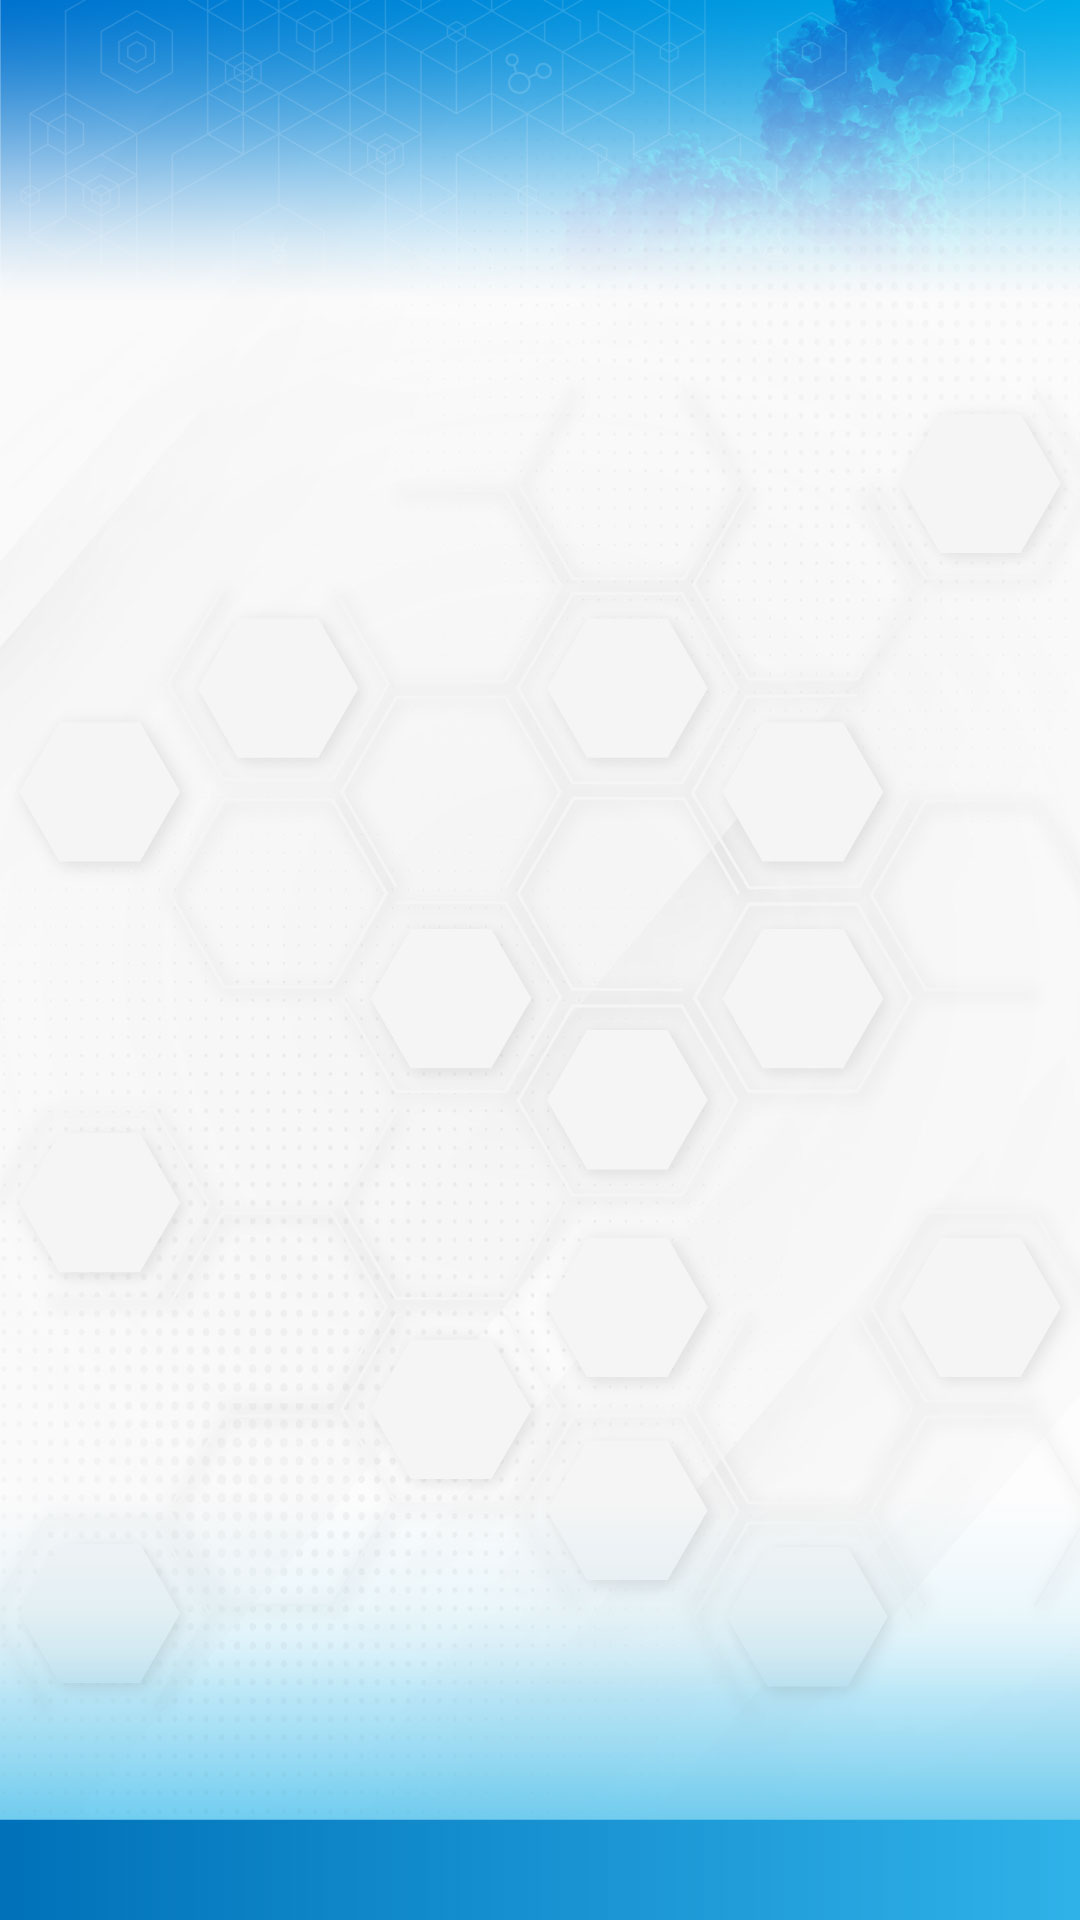
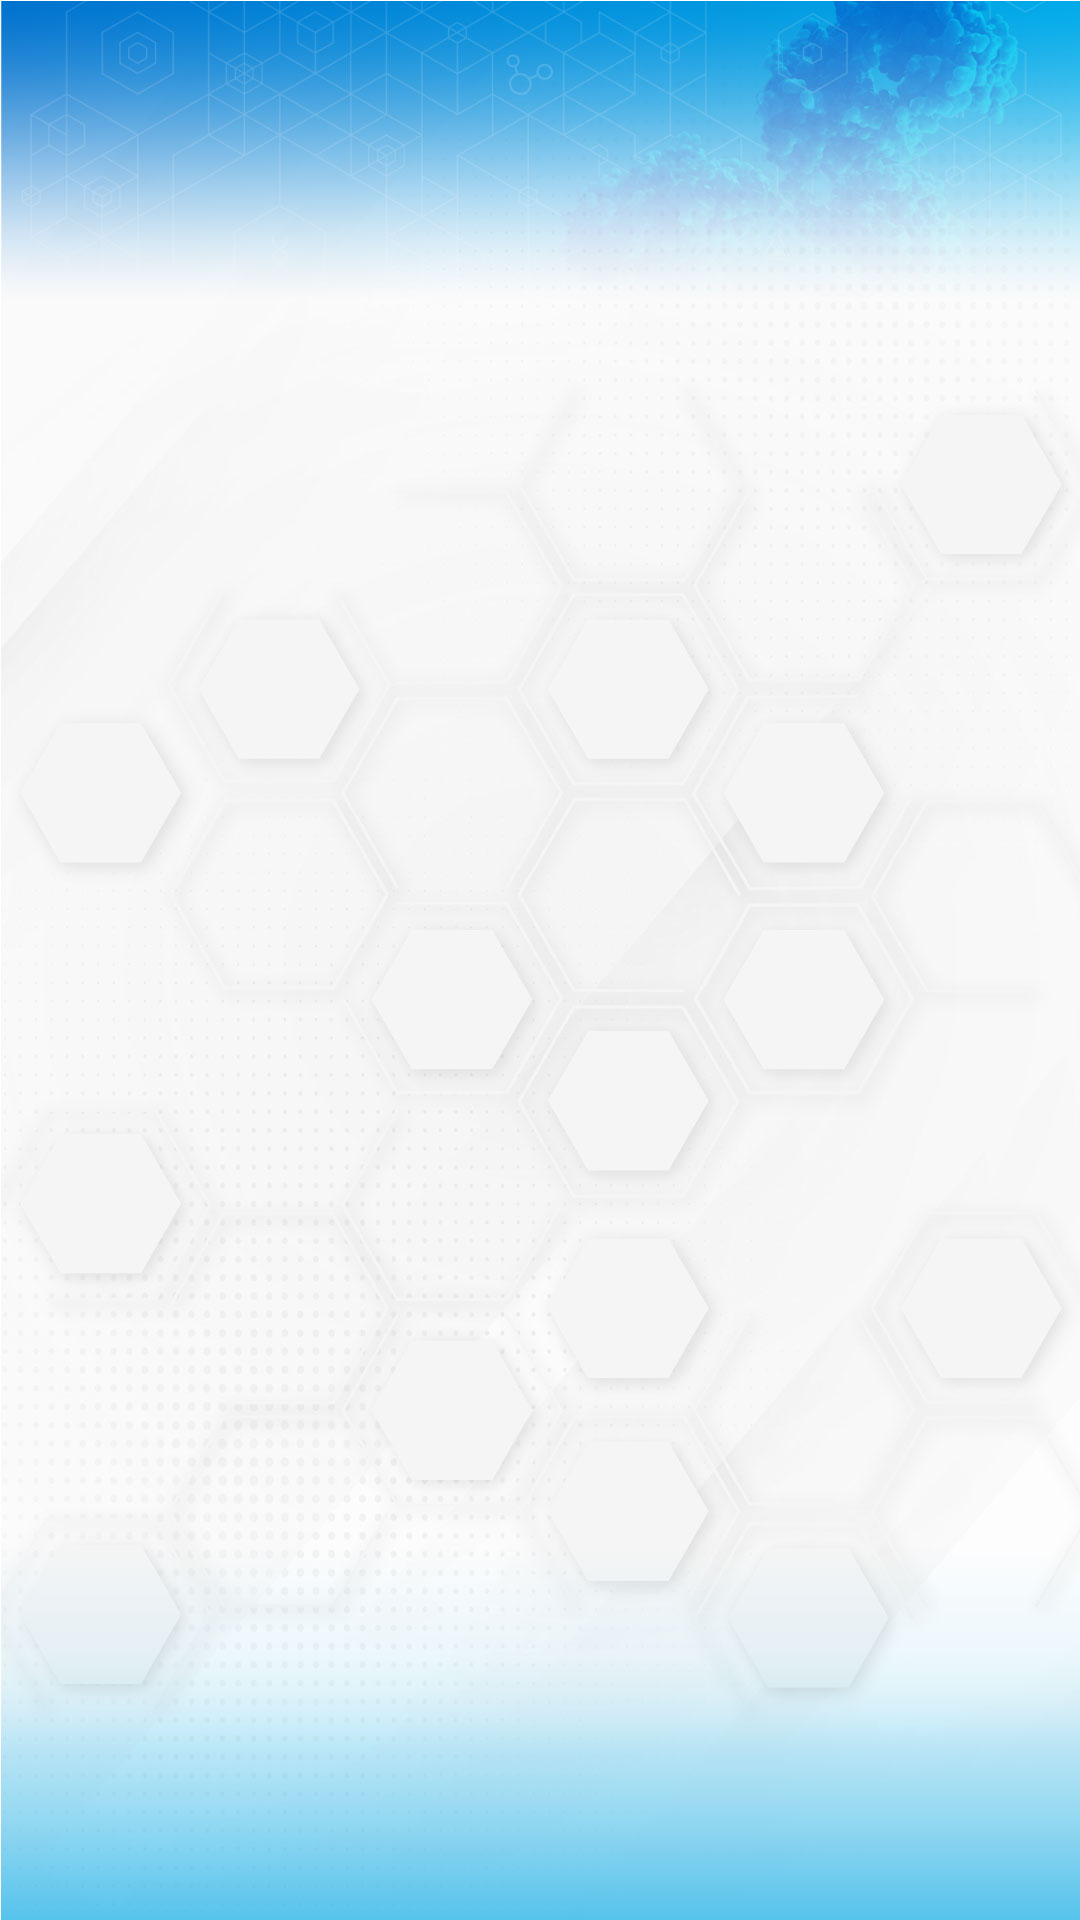
Cambios Estilo

Changed region(s): [[0.0, 0.8438, 1.0, 1.0]]

diff --git a/CSS/StyleSheet.css b/CSS/StyleSheet.css
@@ -10,6 +10,7 @@
 
 body {
 	background-color: #053456;
+	-webkit-text-size-adjust: 100%;
 }
 
 img {
@@ -71,13 +72,21 @@ img {
 	text-align: right;
 	display: block;
 	position: absolute;
+	z-index:1;
 	font-size:9px;
 	line-height: 1em;
-	bottom:6px;
-	right:6px;
+	bottom:0px;
+	right:0px;
+	padding: 10px 0;
 	COLOR: white;
+	background-color: #2fb2e8;
+	width: 100%;
 	
+}
 
+.TextoDesarrollo{
+	padding-right:10px;
+	display:block;
 }
 
 /* Configuracion Pantalla completa en móviles */
@@ -122,7 +131,7 @@ img {
 /* Pagina Registro */
 
 .LogoRegistro{
-	width:45%;
+	width:40%;
 	filter: drop-shadow(0px 3px 4px #0e0c63aa);
 }
 
@@ -174,16 +183,17 @@ button{
 }
 
 .LogoInferior{
- width:40%;
+ width:35%;
  position: absolute;
  bottom: -2px;
- left:50%;
+ left:30%;
  transform: translateX(-50%);
  filter: drop-shadow(0px 3px 4px #0e0c63aa);
+ z-index:10;
 }
 
 .AyudasJuego{
-	max-width: 76%;
+	max-width: 70%;
 }
 
 /* Pagina Seleccion Nivel */
@@ -238,9 +248,9 @@ button{
 .FondoTiempo{
 	background:url(../Images/Fondo_Tiempo.png) no-repeat center center;
 	background-size: contain;
-	padding:4vh;
+	padding:3vh 0 1.8vh;
 	color: white;
-	font-size:3vh;
+	font-size:2vh;
 }
 
 .SeccionPuntaje{
@@ -248,22 +258,22 @@ button{
 	background-size: contain;
 	text-align: center;
 	margin: 0 auto;
-	display: block;
-	padding:3vh;
-	padding-left:5vh;
+	display: inline-block;
+	padding: 1.6vh 3vh 1vh 5vh;
 	color:white;
 	filter: drop-shadow(0px 3px 4px #0e0c63aa);
 	z-index:10;
 	position: absolute;
-	top:1vh;
+	top:2vh;
 	right:2vh;
-	font-size:1.6vh;
+	font-size:14px;
+	line-height: 1em;
 }
 
 .TituloNivel{
 	background:url(../Images/TituloNivel.svg) no-repeat center center;
 	background-size: contain;
-	width:70%;
+	width:60%;
 	text-align: center;
 	margin: 0 auto;
 	display: block;
@@ -289,6 +299,7 @@ button{
 	width:80%;
 	margin:0 auto;
 	display:flex;
+	align-items: center;
 }
 .ImagenPregunta{
 	width:20%;
@@ -298,6 +309,8 @@ button{
 	width:80%;
 	text-align:left;
 	padding-left:2vw;
+	line-height:1.2em;
+	font-size:14px;
 }
 
 .BotonRespuesta{
@@ -312,7 +325,7 @@ button{
 	color:white;
 	filter: drop-shadow(0px 3px 4px #0e0c63aa);
 	line-height: 1.2em;
-    font-size: 14px;
+    font-size: 13px;
 }
 
 .RespuestaCorrecta{
@@ -337,8 +350,8 @@ border-bottom:3px solid #2c54a3;
 }
 
 .BotonAyuda{
-	width:25%;
-	padding:2vh;
+	width:18%;
+	padding:1vh 2vh .5vh 2vh;
 }
 
 .AyudaPistaInformativa{
@@ -354,6 +367,12 @@ border-bottom:3px solid #2c54a3;
 	min-width: 300px;
 	height: 90.3vh;
 
+}
+@media (max-width: 768px) {
+	.OverlayPistaInformativa{
+		height: 100svh;	
+		width:100vw;
+	}
 }
 
 .ContenedorPistaInformativa{
@@ -384,11 +403,12 @@ border-bottom:3px solid #2c54a3;
 	color:white;
 	background-color: #2fb2e8;
 	filter: drop-shadow(0px 3px 4px #0e0c63aa);
-	padding:3vw;
-	border-radius: 0 0 2vw 2vw;
+	padding:30px 30px 20px 30px;
+	border-radius: 0 0 30px 30px;
 	top:-3vh;
 	position: relative;
 	z-index:10;
+	font-size:14px;
 }
 
 .BotonContinuarAzul{
@@ -401,8 +421,9 @@ border-bottom:3px solid #2c54a3;
 	padding:20px;
 	color:white;
 	filter: drop-shadow(0px 3px 4px #0e0c63aa);
-	top:-4vh;
+	top:-6vh;
 	position: relative;
+	font-family: Gordita-Bold;
 }
 
 .ContenedorTextoRetroalimentacion{
@@ -421,27 +442,27 @@ border-bottom:3px solid #2c54a3;
 
 
 .TextoRetroalimentacion{
-	width:60%;
+	width:84%;
 	margin:0 auto;
 	filter: drop-shadow(0px 3px 4px #0e0c63aa);
-
-	top:-8vh;
+	top:-70px;
 	position: relative;
 	z-index:10;
 }
 .TituloTextoRetroalimentacion{
 	background-color: white;
-	padding:6vw 1vw 2vw 1vw;
+	padding:40px 1vw 10px 1vw;
 	color: #2fb2e8;
-	font-size:2.5vw;
-	
+	font-size:20px;
+	font-family: Gordita-Bold;	
 }
 
 .ContenidoTextoRetroalimentacion{
 	color:white;
-	padding:3vw 3vw 3vw 3vw;
+	padding:3vw 30px 20px 30px;
 	background-color: #2fb2e8;
-	border-radius: 0 0 2vw 2vw;
+	border-radius: 0 0 30px 30px;
+	font-size: 14px;
 }
 
 
@@ -457,23 +478,25 @@ border-bottom:3px solid #2c54a3;
 /* Pagina Resultados */
 
 .ContenedorResultado{
-	width:80%;
+	width:90%;
 	margin: 0 auto;
 }
 
 .ContainerResultado{
-	width:75%;
-	max-width:230px;
+	width:90%;
+	max-width:280px;
 	margin: 0 auto;
 	color: white;
-	padding:75px 2vw 35px 2vw;
+	padding:75px 20px 35px 20px;
 	top:-60px;
 	position: relative;
-	border-radius: 0 0 2vw 2vw;
+	border-radius: 0 0 30px 30px;
 	background: rgb(6,113,187);
 	background: linear-gradient(90deg, rgba(6,113,187,1) 0%, rgba(104,38,128,1) 100%);
 	outline-offset: -5px;
 	outline: 2px solid white;
+	line-height: 1.2em;
+	font-size: 15px;
 }
 
 .TituloPuntaje{

diff --git a/HTML/SeleccionNivel.html b/HTML/SeleccionNivel.html
@@ -6,7 +6,7 @@
 
 <img class="LogoSeleccionNivel" src="Images/LogoRegistro.svg" />
 
-<div style="height:3vh;"></div>
+<div style="height:1.5vh;"></div>
 <a class="BotonSeleccionNivel" href="#">
     <div class="ContenidoSeleccionNivel">NIVEL 6&emsp;&emsp;&emsp;&emsp;
         <img class="IconoMoneda" src="Images/Moneda.svg" />
@@ -14,7 +14,7 @@
     </div>
 </a>
 
-<div style="height:2vh;"></div>
+<div style="height:0.8vh;"></div>
 <a class="BotonSeleccionNivel" href="#">
     <div class="ContenidoSeleccionNivel">NIVEL 5&emsp;&emsp;&emsp;&emsp;
         <img class="IconoMoneda" src="Images/Moneda.svg" />
@@ -22,7 +22,7 @@
     </div>
 </a>
 
-<div style="height:2vh;"></div>
+<div style="height:0.8vh;"></div>
 <a class="BotonSeleccionNivel" href="#">
     <div class="ContenidoSeleccionNivel">NIVEL 4&emsp;&emsp;&emsp;&emsp;
         <img class="IconoMoneda" src="Images/Moneda.svg" />
@@ -30,7 +30,7 @@
     </div>
 </a>
 
-<div style="height:2vh;"></div>
+<div style="height:0.8vh;"></div>
 <a class="BotonSeleccionNivel" href="#">
     <div class="ContenidoSeleccionNivel">NIVEL 3&emsp;&emsp;&emsp;&emsp;
         <img class="IconoMoneda" src="Images/Moneda.svg" />
@@ -38,7 +38,7 @@
     </div>
 </a>
 
-<div style="height:2vh;"></div>
+<div style="height:0.8vh;"></div>
 <a class="BotonSeleccionNivel" href="#">
     <div class="ContenidoSeleccionNivel">NIVEL 2&emsp;&emsp;&emsp;&emsp;
         <img class="IconoMoneda" src="Images/Moneda.svg" />
@@ -46,7 +46,7 @@
     </div>
 </a>
 
-<div style="height:2vh;"></div>
+<div style="height:0.8vh;"></div>
 <a class="BotonSeleccionNivel" href="#">
     <div class="ContenidoSeleccionNivel">NIVEL 1&emsp;&emsp;&emsp;&emsp;
         <img class="IconoMoneda" src="Images/Moneda.svg" />
@@ -56,6 +56,4 @@
 
 <img class="FooterAmgen" src="Images/FooterAmgen.svg" />
 
-<div class="CodigoDesarrollo">
-    Material Dirigido exclusivamente<br>a los profesionales de la salud<br>COL-NP-0523-80005
-</div>
+<div class="CodigoDesarrollo"><span class="TextoDesarrollo">Material dirigido exclusivamente<br>a los profesionales de la salud<br>COL-NP-0523-80005</span></div>

diff --git a/HTML/Pregunta.html b/HTML/Pregunta.html
@@ -5,12 +5,12 @@
 <div style="height:2vh;"></div>
 <div class="TituloNivel" id="TituloNivel">NIVEL 1</div>
 <div class="SeccionPreguntas">
-   <div style="height:6vh;"></div>
+   <div style="height:4.5vh;"></div>
    <div class="BloquePreguntas">
       <div class="ImagenPregunta"><img src="Images/Proteina.png" /></div>
       <div class="TextoPregunta"></div>
    </div>
-   <div style="height:3vh;"></div>
+   <div style="height:1.5vh;"></div>
 </div>
 
 <div id="answersList"></div>
@@ -55,5 +55,4 @@
    <img class="LogoTextoRetroalimentacion" src="Images/LogoAmgen.svg" />
 </div>
 
-<div class="CodigoDesarrollo">Material Dirigido exclusivamente<br>a los profesionales de la salud<br>COL-NP-0523-80005
-</div>
+<div class="CodigoDesarrollo"><span class="TextoDesarrollo">Material dirigido exclusivamente<br>a los profesionales de la salud<br>COL-NP-0523-80005</span></div>

diff --git a/HTML/Instrucciones02.html b/HTML/Instrucciones02.html
@@ -4,7 +4,7 @@
 
 <img class="LogoRegistro" src="Images/QuienSabeMas.png" />
 
-<div style="height:3vh;"></div>
+<div style="height:2vh;"></div>
 
 <div class="ContenedorInstruccion">
     <div class="ContenedorResultado">
@@ -16,8 +16,8 @@
 
 
 
-<a class="BotonContinuar" id="btnStartGame" style="position:relative; top:-3vh;" href="#">COMENZAR</a>
+<a class="BotonContinuar" id="btnStartGame" style="position:relative; top:-5vh;" href="#">COMENZAR</a>
 
 <img class="LogoInferior" src="Images/LogoAmgen.svg" />
 
-<div class="CodigoDesarrollo">Material Dirigido exclusivamente<br>a los profesionales de la salud<br>COL-NP-0523-80005</div>
+<div class="CodigoDesarrollo"><span class="TextoDesarrollo">Material dirigido exclusivamente<br>a los profesionales de la salud<br>COL-NP-0523-80005</span></div>

diff --git a/HTML/Instrucciones01.html b/HTML/Instrucciones01.html
@@ -4,7 +4,7 @@
 
 <img class="LogoRegistro" src="Images/QuienSabeMas.png" />
 
-<div style="height:3vh;"></div>
+<div style="height:2vh;"></div>
 
 <div class="ContenedorAyudas">
 <img class="AyudasJuego" src="Images/AyudaInfo.svg"/>
@@ -16,4 +16,4 @@
 
 <img class="LogoInferior" src="Images/LogoAmgen.svg" />
 
-<div class="CodigoDesarrollo">Material dirigido exclusivamente<br>a los profesionales de la salud<br>COL-NP-0523-80005</div>
+<div class="CodigoDesarrollo"><span class="TextoDesarrollo">Material dirigido exclusivamente<br>a los profesionales de la salud<br>COL-NP-0523-80005</span></div>

diff --git a/HTML/Ranking.html b/HTML/Ranking.html
@@ -16,4 +16,4 @@
 
 <div class="PosicionRanking "><div class="NombreParticipante">Doe</div><div class="PuntajeParticipante"><img class="IconoMoneda" src="Images/Moneda.svg"/> 99999</div></div>
 
-<div class="CodigoDesarrollo">Material Dirigido exclusivamente<br>a los profesionales de la salud<br>COL-NP-0523-80005</div>
+<div class="CodigoDesarrollo"><span class="TextoDesarrollo">Material dirigido exclusivamente<br>a los profesionales de la salud<br>COL-NP-0523-80005</span></div>

diff --git a/HTML/Resultados.html b/HTML/Resultados.html
@@ -15,4 +15,4 @@
 
 <img class="LogoTextoRetroalimentacion" src="Images/LogoAmgen.svg" />
 
-<div class="CodigoDesarrollo">Material Dirigido exclusivamente<br>a los profesionales de la salud<br>COL-NP-0523-80005</div>
+<div class="CodigoDesarrollo"><span class="TextoDesarrollo">Material dirigido exclusivamente<br>a los profesionales de la salud<br>COL-NP-0523-80005</span></div>

diff --git a/HTML/Wellcome.html b/HTML/Wellcome.html
@@ -31,4 +31,4 @@
 </form>
 </div>
 
-<div class="CodigoDesarrollo">Material Dirigido exclusivamente<br>a los profesionales de la salud<br>COL-NP-0523-80005</div>
+<div class="CodigoDesarrollo"><span class="TextoDesarrollo">Material dirigido exclusivamente<br>a los profesionales de la salud<br>COL-NP-0523-80005</span></div>

diff --git a/js/main.js b/js/main.js
@@ -18,7 +18,7 @@ let streak = 0
 let totalPoints = 0
 let pointsBySuccess = 100
 let multiplier = 1;
-let timeByAns = 30
+let timeByAns = 9999
 let timeleft = timeByAns-1
 window.views = views
 
